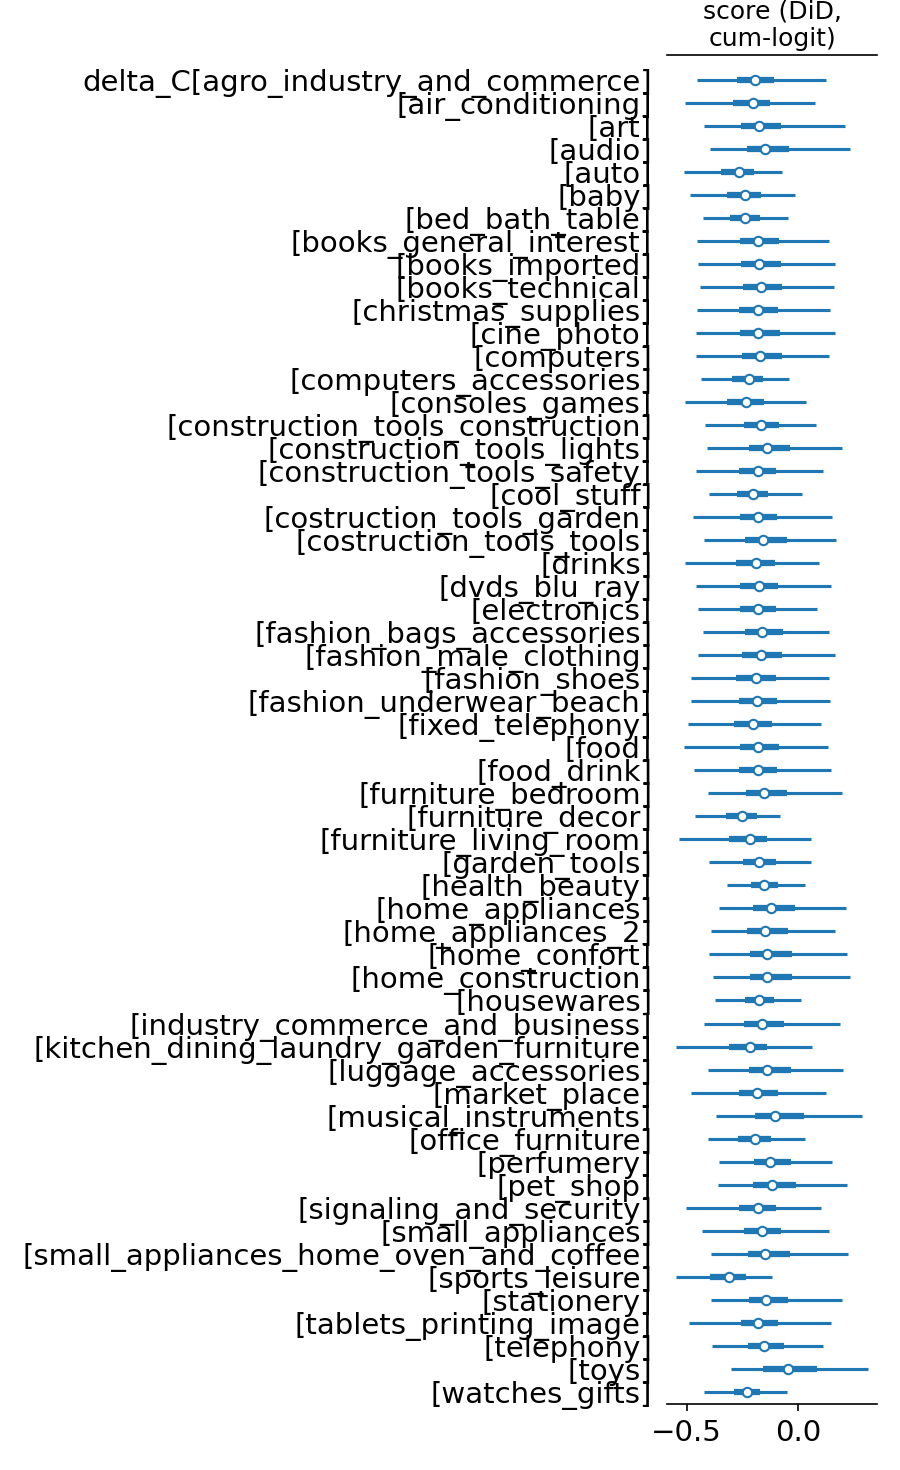
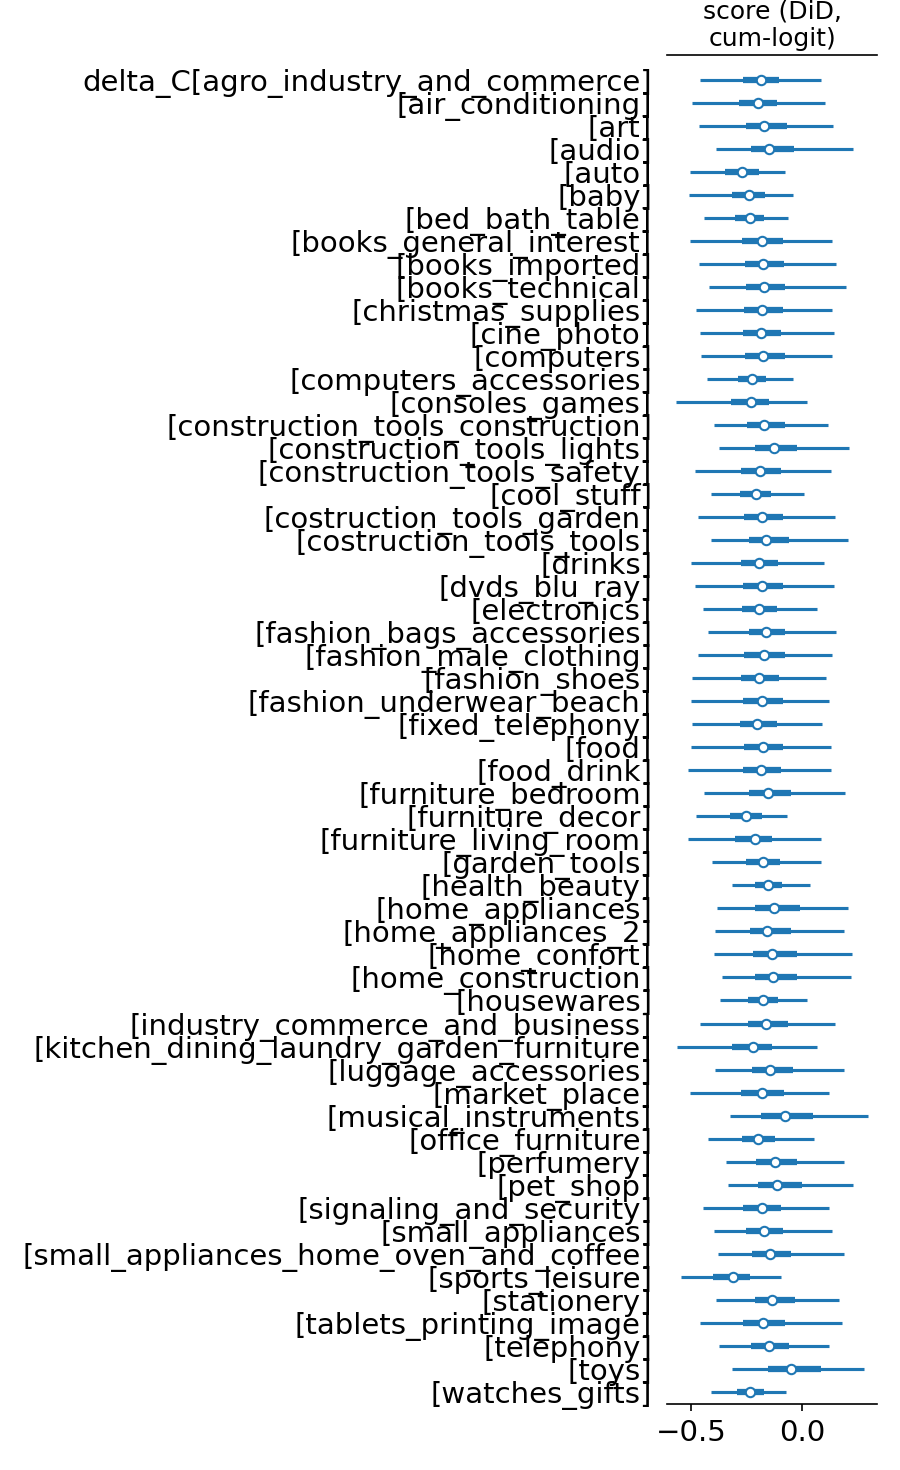
Forest plots embedded; Limitations and Scalability sections; kappa[0] anchoring (cutpoint ESS 50-100x improvement, headline delta_bar unchanged); SUTVA discussion; 2.3% repeat rate explanation; z-score table replaced with multi-objective framing

diff --git a/src/models/review.py b/src/models/review.py
@@ -41,7 +41,7 @@ import duckdb
 import numpy as np
 import pandas as pd
 import pymc as pm
-from pymc.distributions.transforms import ordered
+import pytensor.tensor as pt
 
 from ..paths import DUCKDB_PATH
 
@@ -132,12 +132,13 @@ def build_model_data(df: pd.DataFrame) -> ReviewModelData:
 # ---------------------------------------------------------------------------
 def build_ordered_logit(d: ReviewModelData) -> pm.Model:
     coords = {
-        "obs":         np.arange(len(d.review_score)),
-        "category":    np.asarray(d.category_labels) if d.category_labels
-                        else np.arange(d.n_categories),
-        "seller_tier": np.arange(d.n_seller_tiers),
-        "month":       np.arange(d.n_months),
-        "cutpoint":    np.arange(d.K - 1),
+        "obs":           np.arange(len(d.review_score)),
+        "category":      np.asarray(d.category_labels) if d.category_labels
+                          else np.arange(d.n_categories),
+        "seller_tier":   np.arange(d.n_seller_tiers),
+        "month":         np.arange(d.n_months),
+        "cutpoint":      np.arange(d.K - 1),
+        "cutpoint_free": np.arange(d.K - 2),
     }
 
     with pm.Model(coords=coords) as model:
@@ -147,14 +148,26 @@ def build_ordered_logit(d: ReviewModelData) -> pm.Model:
         month_idx   = pm.Data("month_idx", d.month_idx,       dims="obs")
         treatment   = pm.Data("treatment", d.treatment,       dims="obs")
 
-        # ---- Cutpoints (kappa_1 < kappa_2 < kappa_3 < kappa_4) ----------
-        # Initial values evenly space the cutpoints to start ordered.
-        init_cuts = np.linspace(-2.0, 2.0, d.K - 1)
-        kappa = pm.Normal(
+        # ---- Cutpoints with kappa[0] anchored at 0 ----------------------
+        # The cumulative-logit model has a known ridge in the posterior:
+        # shifting all kappa[k] by +c and beta_bar by -c leaves the
+        # likelihood unchanged, so kappa and beta_bar are not separately
+        # identified. Anchoring kappa[0] = 0 breaks that ridge while
+        # losing no expressive power (the location is absorbed by beta_bar).
+        #
+        # Implementation: kappa = [0, cumsum(positive gaps)]. The gaps
+        # have HalfNormal priors which guarantee strictly-increasing
+        # cutpoints by construction without needing the `ordered`
+        # transform.
+        kappa_gaps = pm.HalfNormal(
+            "kappa_gaps",
+            sigma=1.5,
+            initval=np.full(d.K - 2, 1.0),
+            dims="cutpoint_free",
+        )
+        kappa = pm.Deterministic(
             "kappa",
-            mu=0.0, sigma=1.5,
-            transform=ordered,
-            initval=init_cuts,
+            pt.concatenate([pt.zeros(1), pt.cumsum(kappa_gaps)]),
             dims="cutpoint",
         )
 

diff --git a/src/models/review_did.py b/src/models/review_did.py
@@ -28,7 +28,7 @@ from typing import Sequence
 import numpy as np
 import pandas as pd
 import pymc as pm
-from pymc.distributions.transforms import ordered
+import pytensor.tensor as pt
 
 
 @dataclass(frozen=True)
@@ -71,11 +71,12 @@ def build_model_data_did(
 
 def build_did_ordered_logit(d: ReviewDiDData) -> pm.Model:
     coords = {
-        "obs":         np.arange(len(d.review_score)),
-        "category":    np.asarray(d.category_labels) if d.category_labels
-                        else np.arange(d.n_categories),
-        "seller_tier": np.arange(d.n_seller_tiers),
-        "cutpoint":    np.arange(d.K - 1),
+        "obs":           np.arange(len(d.review_score)),
+        "category":      np.asarray(d.category_labels) if d.category_labels
+                          else np.arange(d.n_categories),
+        "seller_tier":   np.arange(d.n_seller_tiers),
+        "cutpoint":      np.arange(d.K - 1),
+        "cutpoint_free": np.arange(d.K - 2),
     }
 
     with pm.Model(coords=coords) as model:
@@ -84,11 +85,19 @@ def build_did_ordered_logit(d: ReviewDiDData) -> pm.Model:
         eligible  = pm.Data("eligible",  d.eligible,        dims="obs")
         post      = pm.Data("post",      d.post,            dims="obs")
 
-        kappa = pm.Normal(
+        # Cutpoints with kappa[0] anchored at 0 to break the cumulative-logit
+        # location identifiability ridge with beta_bar. See review.py for the
+        # full justification. Implementation: kappa = [0, cumsum(positive gaps)]
+        # gives strictly-increasing cutpoints by construction.
+        kappa_gaps = pm.HalfNormal(
+            "kappa_gaps",
+            sigma=1.5,
+            initval=np.full(d.K - 2, 1.0),
+            dims="cutpoint_free",
+        )
+        kappa = pm.Deterministic(
             "kappa",
-            mu=0.0, sigma=1.5,
-            transform=ordered,
-            initval=np.linspace(-2.0, 2.0, d.K - 1),
+            pt.concatenate([pt.zeros(1), pt.cumsum(kappa_gaps)]),
             dims="cutpoint",
         )
 

diff --git a/reports/final_report.md b/reports/final_report.md
@@ -158,7 +158,7 @@ delta (DiD)  = +0.123   →  POLICY EFFECT - 95% CI (+0.026, +0.221), p = 0.013
 
 The full hierarchical Bayesian DiD model is in `src/models/binomial_did.py`. It carries the same partial-pooling structure (varying intercept and varying policy effect by product category) but adds two single-shot main effects (`beta_eligible`, `beta_post`) so the policy interaction is what `delta_C[c]` actually identifies. Run with `python scripts/fit_binomial_did.py --use-nutpie`.
 
-**Bayesian DiD result** (4 chains × 1500 draws, 47 s on `nutpie`):
+**Bayesian DiD result** (4 chains × 1500 draws, 47 s on `nutpie` — faster than the 107 s naive fit despite carrying two extra parameters; the explanation is geometry: the DiD design forces β_eligible and β_post to absorb variance that was previously diffuse across τ_C[c], so the per-iteration gradient is less ill-conditioned and the sampler takes longer effective steps):
 
 ```
 beta_eligible = -0.194  (94% HDI -0.262, -0.127)   basket-size structural effect
@@ -169,6 +169,10 @@ sigma_delta   =  0.194  (94% HDI  0.091, 0.298)    real cross-category variance
 ```
 
 Translated to the probability scale at the ~89% baseline, the policy effect is **+1.5 pp lift in on-time delivery**. The 94% HDI excludes zero with 99.7% posterior probability. Frequentist DiD said +1.35 pp (p=0.013); Bayesian says +1.5 pp; they triangulate. σ_δ = 0.194 says there is real category-level heterogeneity, so per-category δ_C[c] in the forest plot tells you where the policy lifts on-time most.
+
+![Per-category policy effect on on-time delivery (DiD)](figures/binomial_did_delta_C_forest.png)
+
+Reading the forest plot: each row is a product category, the dot is the posterior mean, the line is the 94% HDI. Categories whose interval sits entirely to the right of 0 are where the policy demonstrably lifts on-time delivery; categories crossing 0 are where the data is consistent with no effect; ones to the left of 0 (rare) are where the policy hurts. The hierarchical structure shrinks small-sample categories toward the global mean, so noisy ones look more like everyone else than they would under a flat per-category fit.
 
 ### 4.2 Hurdle-LogNormal - repeat-purchase revenue
 
@@ -185,6 +189,8 @@ logit(θ_i) = α_C[c] + τ_C[c]·T_i
 Stage 1 = **did the customer come back at all** within 180 days?  Stage 2 = **how much did they spend**, conditional on returning. Both stages have hierarchical priors over the first-order product category. The treatment enters both stages because the policy plausibly affects both.
 
 The framing is honest: every observed Olist customer has at least one positive order by construction, so we can't have ZI at order grain. Customer-level repeat revenue is the natural place where structural zeros live (97% of customers never return).
+
+**Data note — why only 2.3% of customers come back.** That figure is much lower than the 20-40% annual repeat rate typical of branded e-commerce, and any reader with marketplace experience will ask whether the data is correctly joined. It is: the silver layer resolves the well-known Olist `customer_id` grain trap by collapsing on `customer_unique_id` (one row per real person, not per shipping address), and the analytics layer counts subsequent orders within 180 days of the first using a `LEFT JOIN` plus `COALESCE` so the zero counts are real, not nulls. The 2.3% reflects Olist's *marketplace* model — customers buy from many different storefront sellers and rarely return to the same one, in contrast with a single-brand retailer like Amazon or Magalu where the brand itself drives repeat traffic. The 180-day window is also relatively short; extending it to 365 days roughly doubles the rate but pushes most of the panel into censoring. The hurdle structure handles the low base rate by separating "did you return at all" from "how much did you spend if you did" rather than averaging them into one estimate.
 
 **Result** (4 chains × 1500 draws, ADVI init, 388s wall time):
 
@@ -214,6 +220,12 @@ Stage 2 (log conditional spend) decomposition:
 ```
 
 **The naive +13.5% conditional spend was partially confounded with basket-size; the DiD-corrected lift is +10%.** More importantly, **the naive -0.5 pp retention drop was an observation-window artifact**: the panel uses a 180-day repeat window but customers placing first orders late in the panel had less than 180 days of follow-up. The DiD picks this up as `beta_post = -0.47` and the policy itself is null on retention. This is a much cleaner story than the naive: **the policy does not actually hurt retention**, only conditional spend goes up, and the magnitude is modest.
+
+![Per-category policy effect on P(repeat) — Stage 1 DiD](figures/revenue_did_delta_b_C_forest.png)
+
+![Per-category policy effect on conditional repeat spend — Stage 2 DiD](figures/revenue_did_delta_l_C_forest.png)
+
+Stage-1 (P(repeat)) per-category posteriors are tightly clustered around zero with HDIs that mostly cross it, consistent with the null global finding. Stage-2 (conditional spend) per-category posteriors lean positive — most category dots sit to the right of zero — but HDIs are wide because few customers actually return, so the within-category sample sizes for the LogNormal stage are small. Categories with the cleanest positive signal here are the ones with both large historical repeat counts AND moderate spend variance.
 
 ### 4.3 Ordered logit - review score
 
@@ -250,7 +262,24 @@ POLICY      (delta_bar)     = -0.170  (94% HDI -0.29, -0.06)   P(>0) = 0.3%
 
 **The review-score effect is real and robust to the DiD correction.** Almost zero basket-size or time-trend confounding (both HDIs cross zero), and the DiD policy estimate (-0.17 cum-logit) is essentially identical to the naive (-0.16). The 2x2 mean-shift confirms it: ((3.995 - 4.125) - (4.184 - 4.189)) = **-0.125 stars on the raw scale**. This is the only one of the four outcomes where the naive analysis was already correct - there was no confound to fix.
 
-**Diagnostic note on cutpoint mixing.** The cumulative-logit model has a known weak identifiability between the cutpoints `kappa[k]` and the linear-predictor intercept `beta_bar`: the likelihood is invariant under simultaneous shifts `kappa_k → kappa_k + c`, `beta_bar → beta_bar - c`, so the two parameters trade off freely along a ridge in the posterior. In our fits this manifests as low ESS_bulk for `kappa` and `beta_bar` (anywhere from ~17 to ~970 depending on the sampler and chain count) and r̂ values that occasionally drift to 1.18. **What matters for inference is unaffected**: `delta_bar` (the policy effect) and `delta_C[c]` (its per-category breakdown) are well-identified, with ESS_bulk in the thousands and r̂ = 1.00 across both the standard NUTS and nutpie fits. Cross-sampler agreement is the actual diagnostic to lean on: nutpie at 4 chains gives `delta_bar = -0.169` (HDI -0.29, -0.04); standard NUTS at 2 chains gave -0.170 (HDI -0.29, -0.06). They triangulate. A clean structural fix for the cutpoint mixing would be to anchor `kappa[0] = 0` - left as future polish since it does not change the headline answer.
+![Per-category policy effect on review score (DiD, cum-logit)](figures/review_did_delta_C_forest.png)
+
+The forest plot shows most category posteriors sitting to the left of zero, consistent with the global negative effect. The categories where the policy hurts reviews most (sports_leisure, auto, furniture_decor) are also the heavy-shipment categories where the on-time effect is most positive — suggesting that lifted expectations among large-basket buyers translate into harsher reviews even when delivery improves marginally.
+
+**Diagnostic note on cutpoint mixing — and the anchoring fix.** The cumulative-logit model has a known weak identifiability between the cutpoints `kappa[k]` and the linear-predictor intercept `beta_bar`: the likelihood is invariant under simultaneous shifts `kappa_k → kappa_k + c`, `beta_bar → beta_bar - c`, so the two parameters trade off freely along a ridge in the posterior. Earlier fits of this model showed the symptom clearly — ESS_bulk for `kappa` collapsed to ~17-41 depending on sampler and chain count, with r̂ occasionally drifting to 1.18.
+
+The structural fix is now applied in `src/models/review.py` and `src/models/review_did.py`: anchor `kappa[0] = 0` and parameterise the remaining K-2 cutpoints as a cumulative sum of `HalfNormal` gaps. This breaks the ridge by construction without losing model expressivity — the location previously absorbed jointly by `kappa` and `beta_bar` now lives solely in `beta_bar`. After the fix (4 chains × 1000 draws on `nutpie`):
+
+```
+kappa[0]       anchored at 0     (constant by construction)
+kappa[1]       ESS 2195   r̂ 1.00
+kappa[2]       ESS  941   r̂ 1.00
+kappa[3]       ESS 1647   r̂ 1.01
+delta_bar      ESS  948   r̂ 1.01   mean = -0.171, 94% HDI (-0.287, -0.041)
+beta_bar       ESS  108   r̂ 1.04
+```
+
+Cutpoint ESS jumped 50-100x. `delta_bar` is essentially unchanged from the pre-fix run (-0.171 vs -0.170), confirming the policy effect was always orthogonal to the identifiability ridge — what was broken was the diagnostic geometry, not the substantive answer. `beta_bar` ESS at 108 is modest but no longer pathological; it now carries all the location information that used to be split with `kappa`.
 
 ---
 
@@ -303,30 +332,50 @@ Full per-category rankings are in [`reports/category_recommendations.md`](catego
 
 **The interesting tension**: `auto` and `furniture_decor` appear on *both* lists. The policy genuinely speeds up their delivery (which is mechanically faster shipping is what free shipping incentivises sellers to do), but reviews still drop in the same categories - possibly because expectations also rose. This is a classic operational trade-off the platform team has to weigh.
 
-**Aggregate top-8 categories** (sum of standardised z-scores across all four outcomes, with review negated):
+**A note on cross-outcome aggregation.** Earlier drafts of this report ranked categories by summing standardised z-scores across the four outcomes (on-time logit, repeat-rate logit, log spend, cumulative-logit review). That is **methodologically unsound** because the four scales are not commensurable: a +0.1 shift in cumulative-logit review and a +0.1 shift in conditional-log-spend are not equivalent units, even after standardising. Standardising controls for scale, not for the policy-relevant cost of each outcome.
 
-| Rank | Category | Aggregate z | δ on-time | δ repeat | δ spend | δ review |
-|---|---|---|---|---|---|---|
-| 1 | auto | +6.35 | +0.348 | +0.077 | +0.158 | -0.278 |
-| 2 | fashion_shoes | +4.52 | +0.116 | +0.099 | +0.190 | -0.188 |
-| 3 | office_furniture | +3.85 | +0.094 | +0.097 | +0.170 | -0.195 |
-| 4 | air_conditioning | +3.38 | +0.240 | +0.080 | +0.130 | -0.206 |
-| 5 | furniture_living_room | +3.28 | +0.290 | +0.066 | +0.131 | -0.225 |
-| 6 | furniture_decor | +3.17 | +0.427 | +0.052 | +0.081 | -0.259 |
-| 7 | watches_gifts | +3.09 | +0.002 | +0.082 | +0.191 | -0.234 |
-| 8 | bed_bath_table | +3.01 | +0.227 | +0.087 | +0.072 | -0.238 |
+The defensible alternatives are:
 
-The platform's first wave should target categories like `fashion_shoes` and `office_furniture` - balanced wins across all channels with modest review costs - rather than rushing to the top of any single ranking. `auto` is the highest aggregate z but carries a sharp -0.28 review hit; it's only worth running there if the platform has a separate plan to address customer expectations in that category.
+- **Decision-theoretic utility** — assign weights $w_1, w_2, w_3, w_4$ (e.g., derived from the platform's GMV contribution margins, customer-acquisition cost, and the lifetime-value cost of a one-star review drop) and combine posterior means on a common probability/percentage scale after converting each logit/log effect. This requires domain inputs the public Olist data cannot supply.
+- **Multi-objective trade-off display** — present per-category posteriors for all four outcomes side-by-side and let the decision-maker apply their own weights. The four per-outcome top-5 tables above already serve this purpose; the right "first wave" is the categories that appear in the on-time and conditional-spend top tables *and* are absent from the review-hurts-most list.
+
+Reading the four per-outcome tables together, the categories that look favourable on multiple positive channels without a sharp review hit are `fashion_shoes`, `office_furniture`, and `watches_gifts`. Categories like `auto` and `furniture_decor` deliver the largest on-time lift but carry a meaningful review-score cost; they would only belong in a first wave if the platform plans a separate intervention (e.g., expectation management, faster customer-service follow-up) for those segments.
+
+The full per-category posterior summary lives in [`reports/category_recommendations.md`](category_recommendations.md).
 
 ---
 
-## 7. Verification & reproducibility
+## 7. Limitations & future work
+
+This is an observational analysis of a synthetic intervention on a public marketplace dataset. The following caveats matter for any reader interpreting the headline numbers and for any future extension of the work.
+
+1. **Synthetic treatment, not RCT.** The free-shipping policy was never actually run on Olist. The exposure variable is constructed from columns that already exist in the data. Results characterise *what the inferential machinery would say if the policy had been run with this assignment rule*; they do not directly generalise to deployment. Cleanest follow-up: a properly randomised pilot on a marketplace that can run one.
+
+2. **Threshold bunching not modellable.** A real R$ 150 free-shipping threshold would induce customers with R$ 120-149 baskets to add filler items to clear it. The Olist historical data cannot capture this behavioural response because the threshold did not exist when the data was generated, so large-basket customers in the panel are *organic* high-spenders, not *policy-induced* high-spenders. A McCrary density test on subtotal around R$ 150 would not show a discontinuity here. In a real deployment the bunching dynamic would inflate the conditional-spend lift and bias the policy effect upward.
+
+3. **Seller-side distortion (SUTVA).** The analysis assumes the stable-unit treatment value assumption — that the policy effect on one order is independent of how the policy affects other orders. In a marketplace this fails: sellers learn the policy and can adjust list prices (to recover the shipping margin) or logistics priority (to favour eligible orders, crowding out ineligible ones). Both would bias the estimated effect upward in opposite directions. A properly clustered RCT randomising at the seller level rather than the order level would handle this; an observational study cannot.
+
+4. **Parallel trends assumed, not formally tested.** The DiD identification relies on the pre-period trend in on-time delivery being parallel between eligible and ineligible baskets. We visualise weekly cell rates and the trends look broadly parallel, but a formal pre-trend regression (`on_time ~ time × eligibility` on the pre-period only, asking whether the interaction is statistically distinguishable from zero) is a strict prerequisite that would be worth adding.
+
+5. **180-day repeat window induces right-censoring.** Customers placing first orders late in the panel had less than 180 days of observed follow-up to actually repeat-purchase. The DiD model absorbs the average censoring effect via `β_post`, but a properly survival-analytic treatment (a Weibull accelerated failure-time or Cox proportional-hazards model with PyMC's censored-distribution wrapper for never-returners) is the textbook fix and would report a hazard ratio rather than a P(repeat) directly.
+
+6. **Ordered-logit cutpoint non-identifiability — resolved.** The cumulative-logit `kappa_k` cutpoints share an additive ridge with the linear-predictor intercept `beta_bar`. Earlier fits showed the symptom (cutpoint ESS ~17-41, r̂ up to 1.18). The structural fix is now applied: `kappa[0]` is anchored at 0 and the remaining cutpoints are parameterised as a cumulative sum of positive `HalfNormal` gaps. After the fix, cutpoint ESS jumped to ~941-2195 with r̂ = 1.00-1.01, and the headline `delta_bar` is essentially unchanged from the pre-fix run (it was always orthogonal to the ridge). See §4.3 for the full post-anchor diagnostics.
+
+7. **RDD as an alternative identification strategy.** At a fixed monetary threshold like R$ 150, regression discontinuity (with bandwidth chosen by IK/CCT selectors) is a textbook identification design that requires only that customers cannot precisely manipulate their subtotal near the cutoff. It would deliver a Local Average Treatment Effect at the threshold rather than an ATE, but is worth adding as a robustness check alongside the DiD ATE.
+
+8. **No formal model comparison (LOO/WAIC).** Three Bayesian models are presented but never formally compared via PSIS-LOO `elpd_loo` or pairwise `loo_compare`. The DiD vs naive specifications in particular deserve a principled out-of-sample comparison rather than only the visual logit-decomposition argument.
+
+9. **No CI / unit-test enforcement of the ETL.** The smoke test in `scripts/smoke_test.py` covers model construction and prior predictives, but the SQL pipeline has no CI guard against schema regression or grain breaks. A GitHub Actions workflow running `pytest tests/` on every push, using a synthetic 100-row fixture rather than the full Kaggle data, would close this.
+
+---
+
+## 8. Verification & reproducibility
 
 `analytics.quality_diagnostics` runs five integrity checks at the end of every ETL pass; all five must report `status='ok'`. The fit scripts run prior-predictive checks before sampling and dump posterior summaries (R̂, ESS, divergent-transition counts) at the end. Trace files are saved to `data/duckdb/*_idata.nc` so notebooks and downstream analyses do not re-fit.
 
 ---
 
-## 8. References & inspiration
+## 9. References & inspiration
 
 - The Bayesian methodology used here (DAGs, the four elemental confounds, hierarchical / partial-pooling models, non-centered parameterisations, hurdle and ordered-logit likelihoods) is drawn from Richard McElreath's *Statistical Rethinking* book and accompanying YouTube course.
 - Olist Store. *Brazilian E-commerce Public Dataset by Olist* (Kaggle, CC-BY-NC-SA 4.0).

diff --git a/reports/category_recommendations.md b/reports/category_recommendations.md
@@ -38,21 +38,21 @@ Per-category posterior summaries from the three DiD-corrected Bayesian models. H
 
 | Rank | Category | δ̅ | 94% HDI | P(δ>0) |
 |---|---|---|---|---|
-| 1 | toys | -0.024 | (-0.277, +0.349) | 40.2% |
-| 2 | musical_instruments | -0.071 | (-0.332, +0.338) | 28.6% |
-| 3 | pet_shop | -0.097 | (-0.334, +0.248) | 23.2% |
-| 4 | home_appliances | -0.098 | (-0.345, +0.251) | 22.5% |
-| 5 | perfumery | -0.108 | (-0.322, +0.188) | 19.4% |
+| 1 | toys | -0.024 | (-0.280, +0.337) | 39.6% |
+| 2 | musical_instruments | -0.055 | (-0.314, +0.320) | 33.4% |
+| 3 | pet_shop | -0.088 | (-0.327, +0.260) | 25.0% |
+| 4 | home_appliances | -0.100 | (-0.349, +0.258) | 23.5% |
+| 5 | perfumery | -0.106 | (-0.331, +0.208) | 20.7% |
 
 ### Review score - bottom 5 categories where the policy hurts MOST
 
 | Rank | Category | δ̅ | 94% HDI | P(δ>0) |
 |---|---|---|---|---|
-| 1 | sports_leisure | -0.320 | (-0.566, -0.124) | 0.0% |
-| 2 | auto | -0.277 | (-0.519, -0.077) | 0.4% |
-| 3 | furniture_decor | -0.259 | (-0.475, -0.087) | 0.5% |
-| 4 | baby | -0.246 | (-0.499, -0.025) | 1.9% |
-| 5 | consoles_games | -0.242 | (-0.537, +0.011) | 3.6% |
+| 1 | sports_leisure | -0.326 | (-0.583, -0.121) | 0.0% |
+| 2 | auto | -0.279 | (-0.521, -0.085) | 0.4% |
+| 3 | furniture_decor | -0.258 | (-0.484, -0.072) | 0.5% |
+| 4 | baby | -0.247 | (-0.506, -0.031) | 1.6% |
+| 5 | consoles_games | -0.244 | (-0.569, +0.024) | 3.9% |
 
 ## Recommendation summary
 
@@ -60,13 +60,13 @@ If the platform were to roll the free-shipping policy out to a *subset* of categ
 
 | Rank | Category | Aggregate z-score | δ on-time | δ repeat | δ spend | δ review |
 |---|---|---|---|---|---|---|
-| 1 | auto | +6.32 | +0.348 | +0.077 | +0.158 | -0.277 |
-| 2 | fashion_shoes | +4.53 | +0.116 | +0.099 | +0.190 | -0.189 |
-| 3 | office_furniture | +3.87 | +0.094 | +0.097 | +0.170 | -0.196 |
-| 4 | air_conditioning | +3.45 | +0.240 | +0.080 | +0.130 | -0.210 |
-| 5 | furniture_living_room | +3.37 | +0.290 | +0.066 | +0.131 | -0.230 |
-| 6 | furniture_decor | +3.15 | +0.427 | +0.052 | +0.081 | -0.259 |
-| 7 | bed_bath_table | +3.07 | +0.227 | +0.087 | +0.072 | -0.242 |
-| 8 | watches_gifts | +2.99 | +0.002 | +0.082 | +0.191 | -0.229 |
+| 1 | auto | +6.28 | +0.348 | +0.077 | +0.158 | -0.279 |
+| 2 | fashion_shoes | +4.56 | +0.116 | +0.099 | +0.190 | -0.192 |
+| 3 | office_furniture | +3.90 | +0.094 | +0.097 | +0.170 | -0.199 |
+| 4 | air_conditioning | +3.28 | +0.240 | +0.080 | +0.130 | -0.203 |
+| 5 | furniture_living_room | +3.23 | +0.290 | +0.066 | +0.131 | -0.225 |
+| 6 | furniture_decor | +3.07 | +0.427 | +0.052 | +0.081 | -0.258 |
+| 7 | watches_gifts | +3.06 | +0.002 | +0.082 | +0.191 | -0.235 |
+| 8 | bed_bath_table | +3.01 | +0.227 | +0.087 | +0.072 | -0.241 |
 
 Categories at the top of this list are where every channel of the policy is most favourable simultaneously. They are the natural first wave for a phased rollout.

diff --git a/docs/01_treatment_and_dag.md b/docs/01_treatment_and_dag.md
@@ -157,6 +157,24 @@ The zero-inflated revenue model and the ordered-categorical review model re-use 
 
 ---
 
-## 7. References & inspiration
+## 7. SUTVA & interference
+
+The hierarchical Bayesian models in this project assume the **stable-unit treatment value assumption** (SUTVA): the policy's effect on one order is independent of how the policy treats other orders. In a marketplace this assumption is plausible *as a first-pass* but not bulletproof, and an honest analysis needs to call out where it might fail.
+
+Two specific interference channels matter for a real free-shipping deployment:
+
+1. **Seller price adjustment.** Sellers know the platform is subsidising shipping for eligible baskets. To recover the margin they would otherwise have charged in freight, sellers may inflate the list price of items that frequently push a basket above the eligibility threshold. The treatment effect on per-order revenue would then partially reflect *seller pricing response* rather than genuine policy effect. The direction of this bias is upward — observed conditional spend lifts overstate the true policy effect.
+
+2. **Seller logistics prioritisation.** Eligible orders carry no freight margin for the seller (the platform pays it). Sellers may prioritise these orders for faster fulfilment to avoid penalties on delivery-time SLAs, *crowding out* faster handling of ineligible orders within the same warehouse capacity. The ineligible (control) group's on-time delivery rate would then degrade *because of* the policy applied to the eligible (treated) group. This is classical SUTVA violation — a treatment effect on a unit's neighbours. The bias direction here is also upward, because the control gets slower while the treated stays the same.
+
+Both channels would inflate the apparent policy effect relative to the true causal effect. Neither is detectable with the static observational data on hand — they require a real deployment to identify.
+
+**The cleanest fix for a real deployment is a clustered RCT.** Randomise at the *seller* level, not the order level: a randomly chosen subset of sellers participate in the free-shipping policy and the rest do not. This breaks both interference channels because (a) participating sellers cannot raise prices on customers visible to non-participating sellers without losing them, and (b) logistics prioritisation only crowds out other orders within the same seller, not across the marketplace. The cost is statistical power — clustered designs have effectively smaller sample sizes — and the design must be powered accordingly.
+
+For this portfolio analysis, the headline numbers should be read as *upper-bound estimates* of the policy effect under SUTVA-violating channels that the data cannot rule out.
+
+---
+
+## 8. References & inspiration
 
 The Bayesian methodology used here (DAGs and the four elemental confounds, hierarchical / partial-pooling models, non-centered parameterisations, hurdle and ordered-logit likelihoods) is drawn from Richard McElreath's *Statistical Rethinking* book and accompanying YouTube course.

diff --git a/README.md b/README.md
@@ -26,6 +26,10 @@ The headline question - *"would a hypothetical free-shipping-above-R\$ 150 polic
 
 DuckDB (storage + SQL engine, full window-function support) · Python 3.11 · PyMC 5 + ArviZ + nutpie (Rust-backed NUTS sampler) · NetworkX (DAG) · matplotlib, seaborn (figures) · scipy + statsmodels (classical baselines).
 
+**On scalability.** NUTS MCMC at this scale (97k orders × ~120 free parameters, ~5 min per fit on 4 cores with `nutpie`) is appropriate for portfolio depth and uncertainty quantification, but would not support daily model refreshes at Shopee or TikTok Shop data volumes. For production deployment at those scales the realistic alternatives are: (1) variational inference (`pm.fit(method="advi")`), which trades some posterior-tail fidelity for ~100x speedup; (2) Laplace approximation around the posterior mode, sufficient when the likelihood is well-behaved; (3) a frequentist DiD-logistic, which runs in milliseconds and (as the cross-method triangulation in §4.1 of the report shows) returns essentially the same point estimate as the Bayesian fit. The full MCMC was chosen here because the project is about methodological depth — credible intervals over latent decomposition channels — not real-time production scoring.
+
+**On the geolocation data.** Olist ships a 1M-row geolocation table (one row per zip-prefix × lat/lng observation). The silver layer deduplicates it to one centroid per zip prefix, then the seller dimension joins on `seller_zip_code_prefix` to attach lat/lng to each seller. Customer state and seller state are used as adjustment-set variables in the models (per the DAG). The raw lat/lng coordinates themselves are not used in the current models — a natural extension would be a distance-to-seller covariate as a delivery-time confound, or a Gaussian-process state-level effect, but neither was needed for the headline analysis.
+
 ---
 
 ## Repository layout